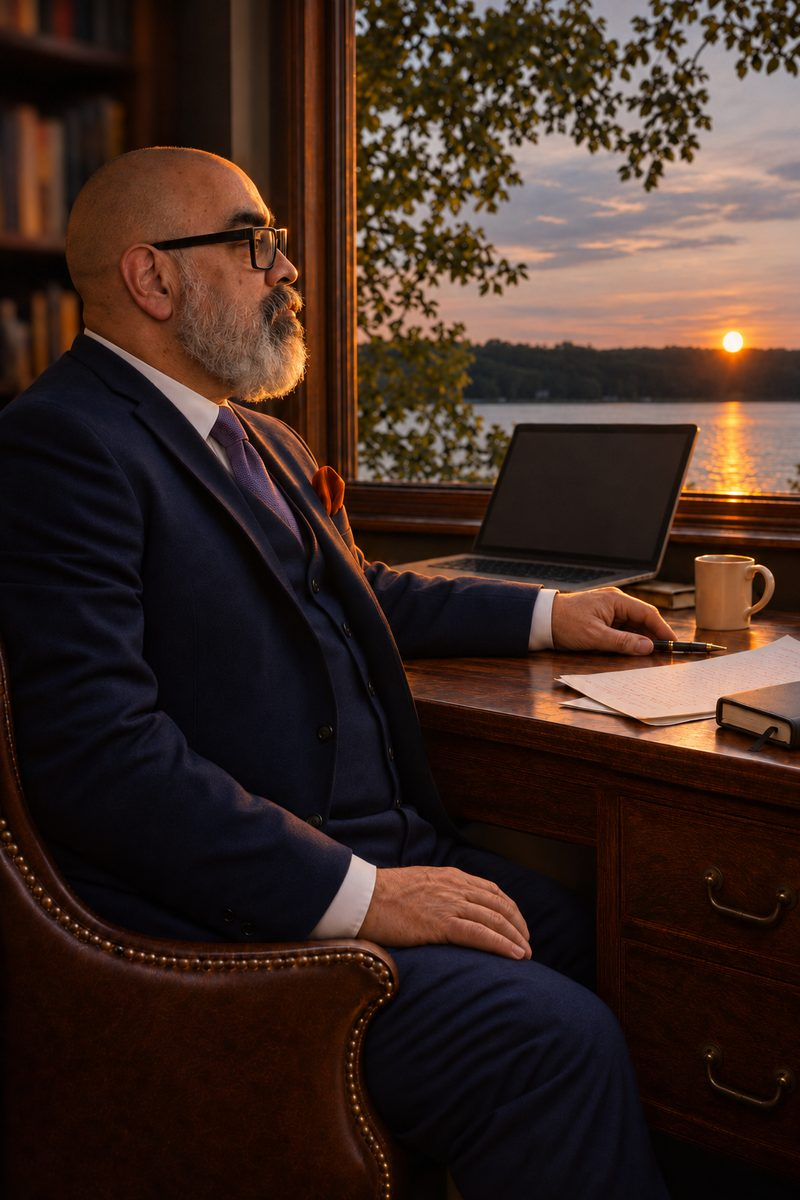
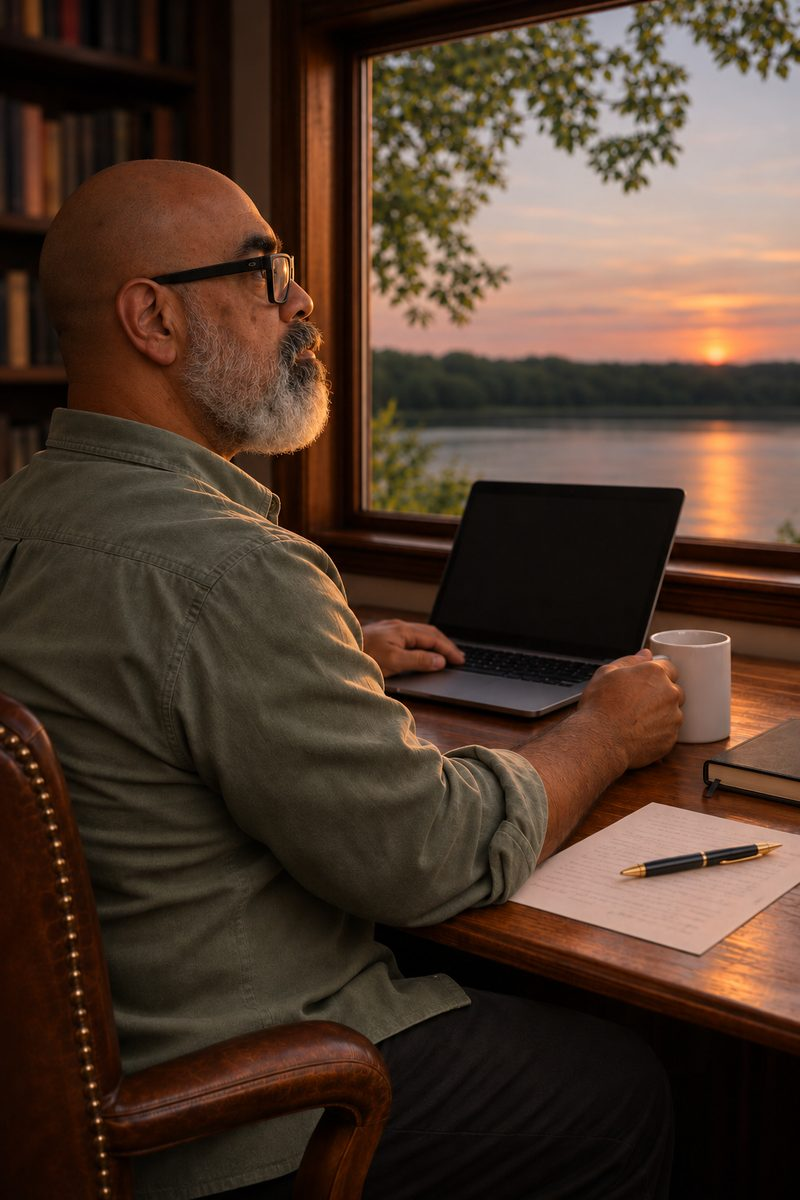
Version 25: new author photo on the About page (sage green shirt)
Claude-Session: https://claude.ai/code/session_01KKddtcDMAjMWL1cxq3XS5n

diff --git a/about.html b/about.html
@@ -44,7 +44,7 @@
 
 <section class="section book-detail">
   <div class="detail-cover">
-    <img class="cover-image" src="assets/s-ramirez-author.jpg" alt="S. Ramirez at his writing desk, looking out a window at a sunset over a lake" width="800" height="1200">
+    <img class="cover-image" src="assets/s-ramirez-author.jpg" alt="S. Ramirez at his writing desk in a sage green shirt, looking out a window at a sunset over a lake" width="800" height="1200">
   </div>
   <div class="content-box">
     <h2>Author Bio</h2>
